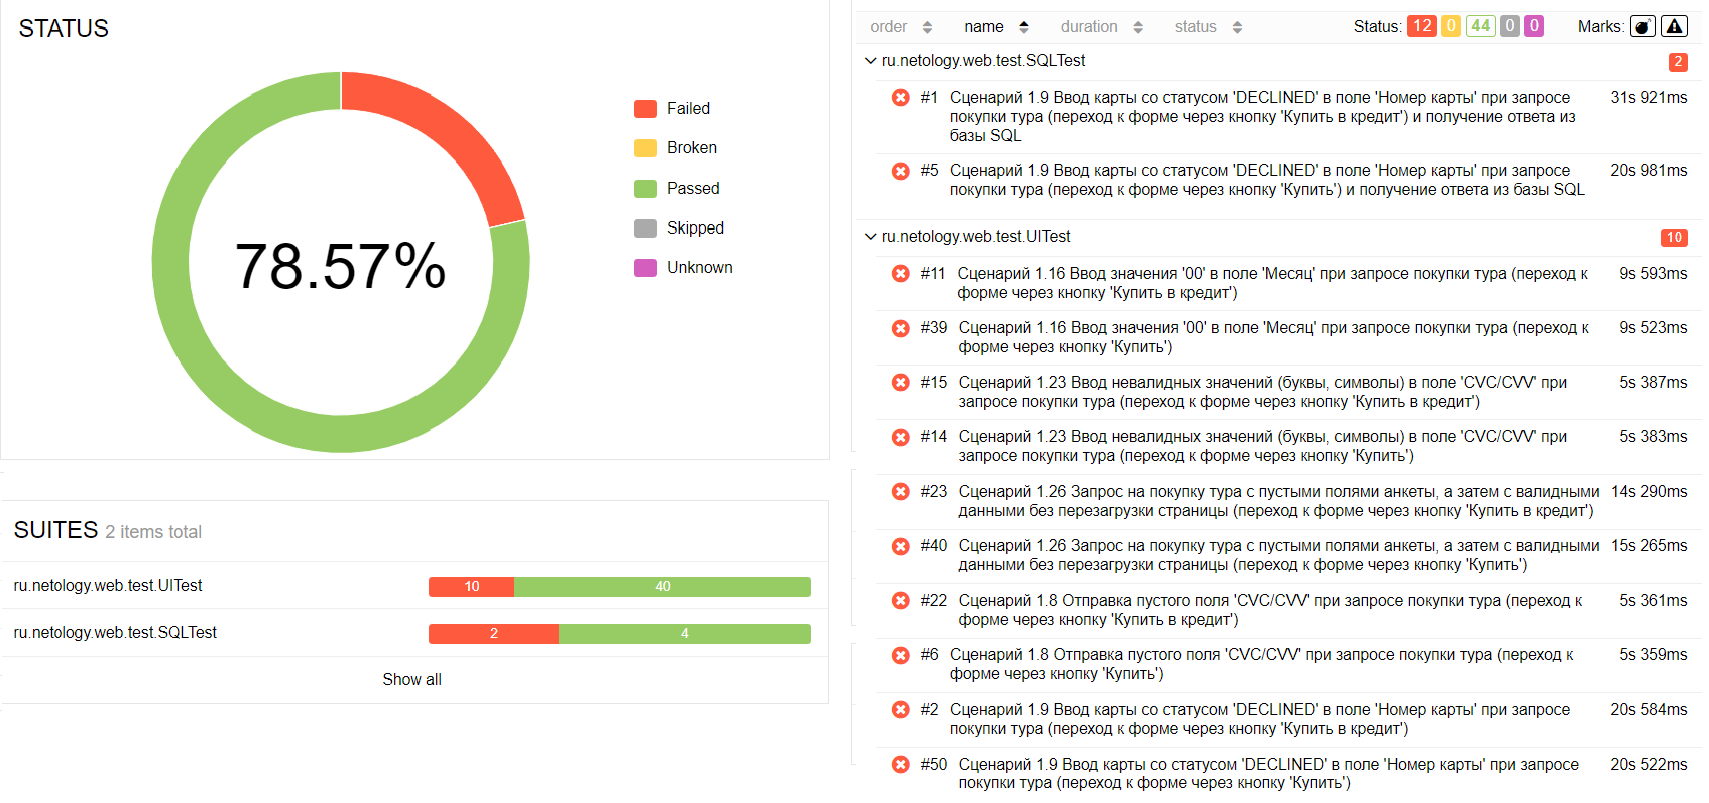
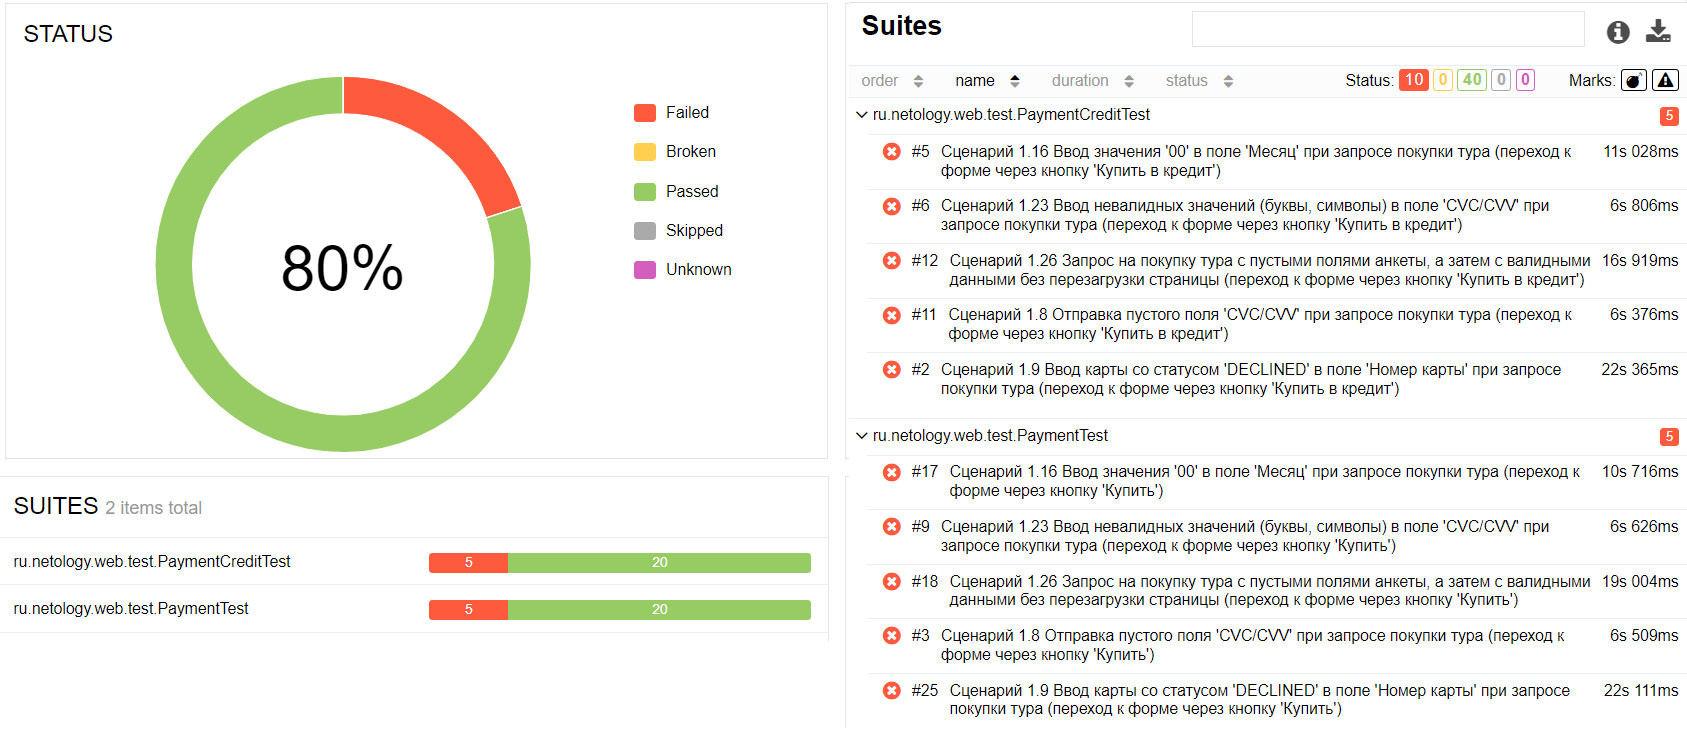
Final correct project

diff --git a/src/test/java/ru/netology/web/page/PaymentPage.java b/src/test/java/ru/netology/web/page/PaymentPage.java
@@ -14,7 +14,7 @@ import static com.codeborne.selenide.Selenide.*;
 import static ru.netology.web.data.DataGenerator.*;
 
 public class PaymentPage {
-        private SelenideElement buttonPay = $(By.xpath("//span[contains(text(),'Купить')]"));
+    private SelenideElement buttonPay = $(By.xpath("//span[contains(text(),'Купить')]"));
     private SelenideElement buttonPayCredit = $(By.xpath("//span[contains(text(),'Купить в кредит')]"));
     private SelenideElement headingPay = $(By.xpath("//h3[text()='Оплата по карте']"));
     private SelenideElement headingPayCredit = $(By.xpath("//h3[text()='Кредит по данным карты']"));
@@ -35,19 +35,19 @@ public class PaymentPage {
     private SelenideElement fieldErrorCVC = $$(".form-field .input_invalid").findBy(text("CVC/CVV")).find(".input__sub");
 
     @Getter
-    private String messageOk = "Операция одобрена Банком.";
+    private final String messageOk = "Операция одобрена Банком.";
     @Getter
-    private String messageNotOk = "Ошибка! Банк отказал в проведении операции.";
+    private final String messageNotOk = "Ошибка! Банк отказал в проведении операции.";
     @Getter
-    private String errorEmpty = "Неверный формат";
+    private final String errorEmpty = "Неверный формат";
     @Getter
-    private String errorEmptyHolder = "Поле обязательно для заполнения";
+    private final String errorEmptyHolder = "Поле обязательно для заполнения";
     @Getter
-    private String errorMonth = "Неверно указан срок действия карты";
+    private final String errorMonth = "Неверно указан срок действия карты";
     @Getter
-    private String errorExpiredYear = "Истёк срок действия карты";
+    private final String errorExpiredYear = "Истёк срок действия карты";
     @Getter
-    private String errorNotExistYear = "Неверно указан срок действия карты";
+    private final String errorNotExistYear = "Неверно указан срок действия карты";
 
     public void openFormToPay() {
         buttonPay.click();
@@ -65,12 +65,15 @@ public class PaymentPage {
         fieldYear.setValue(year);
         fieldHolder.setValue(holder);
         fieldCVC.setValue(cvc);
+        sleep(300);
         buttonContinue.click();
+        sleep(300);
+
     }
 
     public void fillFormWithValidData(String number, String month, String year, String holder, String cvc, String messageOk) {
         fillFormWithData(number, month, year, holder, cvc);
-        notificationOk.shouldBe(visible, Duration.ofSeconds(20)).shouldHave(Condition.text(messageOk));
+        notificationOk.shouldBe(visible, Duration.ofSeconds(15)).shouldHave(Condition.text(messageOk));
     }
 
     public void fillFormWithEmptyOrErrorDataField(String number, String month, String year, String holder, String cvc, String errorOrEmpty) {
@@ -80,7 +83,7 @@ public class PaymentPage {
 
     public void fillFormWithDeclinedOrNonExistingCard(String number, String month, String year, String holder, String cvc, String messageNOk) {
         fillFormWithData(number, month, year, holder, cvc);
-        notificationNOk.shouldBe(visible, Duration.ofSeconds(20)).shouldHave(text(messageNotOk));
+        notificationNOk.shouldBe(visible, Duration.ofSeconds(15)).shouldHave(text(messageNotOk));
     }
 
     public void fillFormWithEmptyAllFieldAndThenValidData(Date dateEmpty, Date dateValid) {

diff --git a/src/test/java/ru/netology/web/test/PaymentCreditTest.java b/src/test/java/ru/netology/web/test/PaymentCreditTest.java
@@ -329,18 +329,6 @@ public class PaymentCreditTest {
         paymentPage.fillFormWithEmptyOrErrorDataField(number, month, year, holder, cvc, messageError);
     }
 
-    @Test
-    @DisplayName("Сценарий 1.23 Ввод невалидных значений (буквы, символы) в поле 'CVC/CVV' при запросе покупки тура (переход к форме через кнопку 'Купить')")
-    void sendRequestWithInvalidSymbolInFieldCVCInPayForm() {
-        paymentPage.openFormToPay();
-        var number = dataGenerator.getApprovednumberCard();
-        var month = DataGenerator.getMonthCard(DataGenerator.generateValidDateCard());
-        var year = DataGenerator.getYearCard(DataGenerator.generateValidDateCard());
-        var holder = DataGenerator.generateNameOfHolderCard();
-        var cvc = DataGenerator.generateCVCWithInvalidSymbol(DataGenerator.generateStringWithInvalidSymbol());
-        var messageError = paymentPage.getErrorEmpty();
-        paymentPage.fillFormWithEmptyOrErrorDataField(number, month, year, holder, cvc, messageError);
-    }
 
     @Test
     @DisplayName("Сценарий 1.23 Ввод невалидных значений (буквы, символы) в поле 'CVC/CVV' при запросе покупки тура (переход к форме через кнопку 'Купить в кредит')")

diff --git a/src/test/java/ru/netology/web/data/DataGenerator.java b/src/test/java/ru/netology/web/data/DataGenerator.java
@@ -66,7 +66,7 @@ public class DataGenerator {
 
 
     public static String generateCardLess16Symbol() {
-        String cardNumber16Symbol = new Faker().finance().creditCard(CreditCardType.VISA);
+        String cardNumber16Symbol = generateCardWith16Symbol();
         int lenghtCard = new Random().nextInt(14) + 1;
         return cardNumber16Symbol.substring(0, lenghtCard);
     }
@@ -75,7 +75,7 @@ public class DataGenerator {
     // генерация значений для полей "Месяц" и "Год".
 
     public static String generateValidDateCard() {
-        int plusMonths = new Random().nextInt(72);
+        int plusMonths = new Random().nextInt(71);
         return LocalDateTime.now().plusMonths(plusMonths).format(DateTimeFormatter.ofPattern("MM.yy"));
     }
 
@@ -107,7 +107,7 @@ public class DataGenerator {
     }
 
     public static String generateMonthMore12() {
-        return String.valueOf(new Random().ints(13, 100));
+        return String.valueOf(new Random().ints(13, 99))+1;
     }
 
     public static String generateMonthOrYearWithInvalidSymbol(List<String> list) {

diff --git a/README.md b/README.md
@@ -17,38 +17,44 @@
 
 В файле `application.properties` должна быть указана следующая настройка: 
 
-`spring.datasource.url=jdbc:mysql://localhost:3306/app`.
+`spring.datasource.url=jdbc:mysql://185.119.57.172:3306/app`.
 
 В файле `build.gradle`  указываем настройки:
 
 `test {
-systemProperty 'db.url', System.getProperty('db.url','jdbc:mysql://localhost:3306/app')
+systemProperty 'db.url', System.getProperty('db.url','jdbc:mysql://185.119.57.172:3306/app')
 }`
 
-В командной строке для запуска сервиса вводим в терминале команду: `java -jar ./artifacts/aqa-shop.jar -P:jdbc.url=jdbc:mysql://localhost:3306/app  -port=8080`.
+В командной строке для запуска сервиса вводим в терминале команду: 
 
+`java -jar ./artifacts/aqa-shop.jar -Dspring.datasource.url=jdbc:mysql://185.119.57.172:3306/app`.
 
-Если БД была развернута на удаленном сервере, то указываем в команде запуска сервиса и в настройках `application.properties` вместо `localhost` адрес сервера.
 
 #### 3.2 Запуск сервиса с PostgreSQL
 
 В файле `application.properties` должна быть указана следующая настройка: 
 
-`spring.datasource.url=jdbc:postgresql://localhost:5432/app`.
+`spring.datasource.url=jdbc:postgresql://185.119.57.172:5432/app`.
 
 В файле `build.gradle`  указываем настройки:
 
 `test {
-systemProperty 'db.url', System.getProperty('db.url','jdbc:postgresql://localhost:5432/app')
+systemProperty 'db.url', System.getProperty('db.url','jdbc:postgresql://185.119.57.172:5432/app')
 }`
 
-В командной строке для запуска сервиса вводим в терминале команду:  `java -jar ./artifacts/aqa-shop.jar -P:jdbc.url=jdbc:postgresql://localhost:5432/app  -port=8080`.
+В командной строке для запуска сервиса вводим в терминале команду:  
 
+`java -jar ./artifacts/aqa-shop.jar -Dspring.datasource.url=jdbc:postgresql://185.119.57.172:5432/app`.
 
-Если БД была развернута на удаленном сервере, то указываем в команде запуска сервиса и в настройках `application.properties` вместо `localhost` адрес сервера.
 
 
 ### 4 Запуск автотестов
 
-Автотесты запускаются в терминале командной строкой: `./gradlew clean test`.
+Автотесты для сервиса с подключенной БД MySQL запускаются в терминале командной строкой: 
+
+`./gradlew clean test -D:db.url=jdbc:mysql://185.119.57.172:3306/app`.
+
+Автотесты для сервиса с подключенной БД PostgreSQL запускаются в терминале командной строкой: 
+
+`./gradlew clean test -D:db.url=jdbc:postgresql://185.119.57.172:5432/app`.
 

diff --git a/Report.md b/Report.md
@@ -6,17 +6,12 @@
 
 ### **2.Количество тест-кейсов**
 
-В общей сложности было запланировано 50 кейсов:
+В общей сложности было запланировано и выполнено 50 кейсов:
 - 2 кейса для перехода к форме заполнения данных платежных карт; 
 - по 24 кейса для заполнения формы данных платежных карт с использованием банковских сервисов Payment Gate и Credit Gate.
 
-В общей сложности было реализовано 56 кейсов: 
-- 2 кейса по переходу к форме заполнения данных платежных карт;
-- по 24 кейса для заполнения формы данных платежных карт с использованием банковских сервисов Payment Gate и Credit Gate.
-- 6 кейсов, дублирующих позитивные и негативные тесты с запросом в БД с использованием банковских сервисов Payment Gate и Credit Gate.
-
 ### **3.Процент успешных и неуспешных тест-кейсов**
-Количество удачно реализованных тестов - 44, количество падающих тестов - 12. Процент успешно пройденных тестов - 78,57%
+Количество удачно реализованных тестов - 40, количество падающих тестов - 10. Процент успешно пройденных тестов - 80%
 
 ![](/images/report.png)
 

diff --git a/Summary.md b/Summary.md
@@ -7,7 +7,7 @@
 - Реализация тестов с запросами в БД;
 - Реализация тестов с поддержкой с СУБД MySQL и PostgreSQL.
 
-В общей сложности было запланировано к реализации 50 тестов, дополнительно 6 тестов были выполнены как повторы позитивных и негативных сценариев, но с запросами в БД.
+В общей сложности было запланировано к реализации 50 тестов, которые включали позитивные и негативные сценарии, включая запросы в БД.
 Все планируемые сценарии удалось реализовать.
 
 ### **Причины, по которым что-то не было реализовано:**
